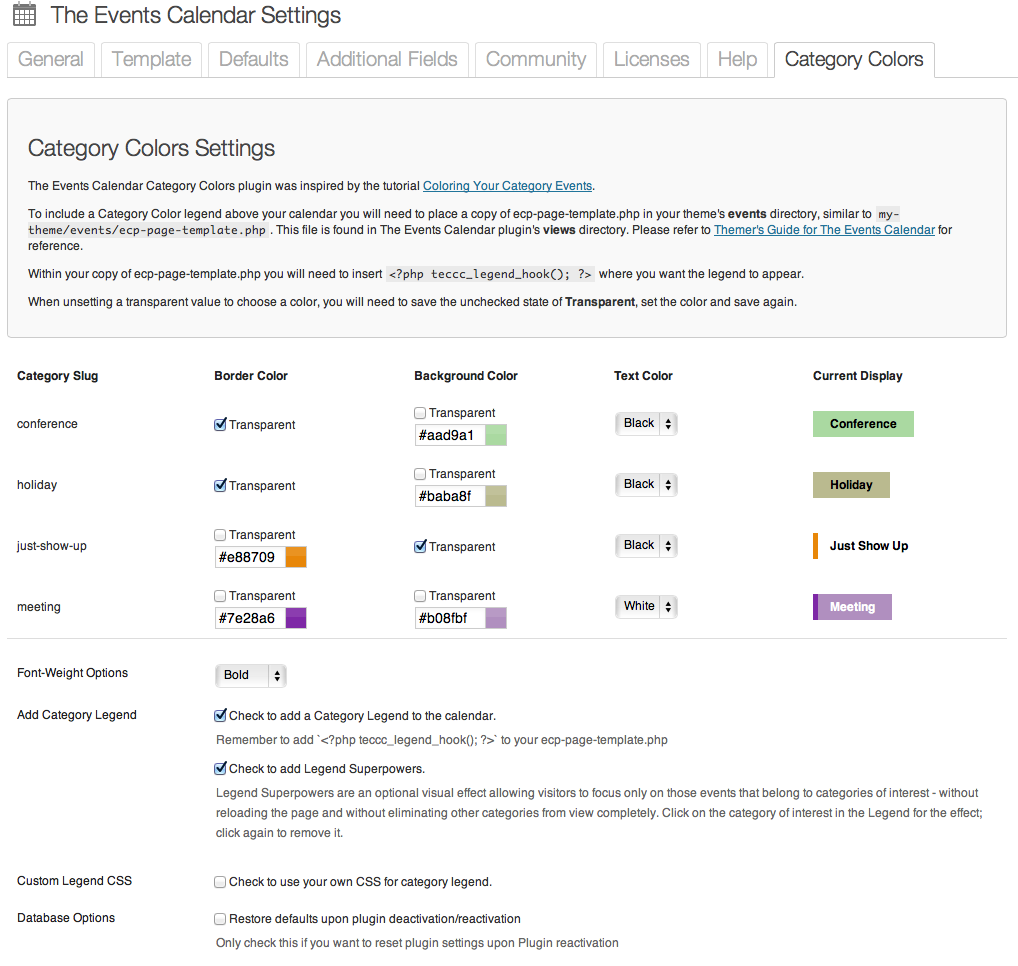
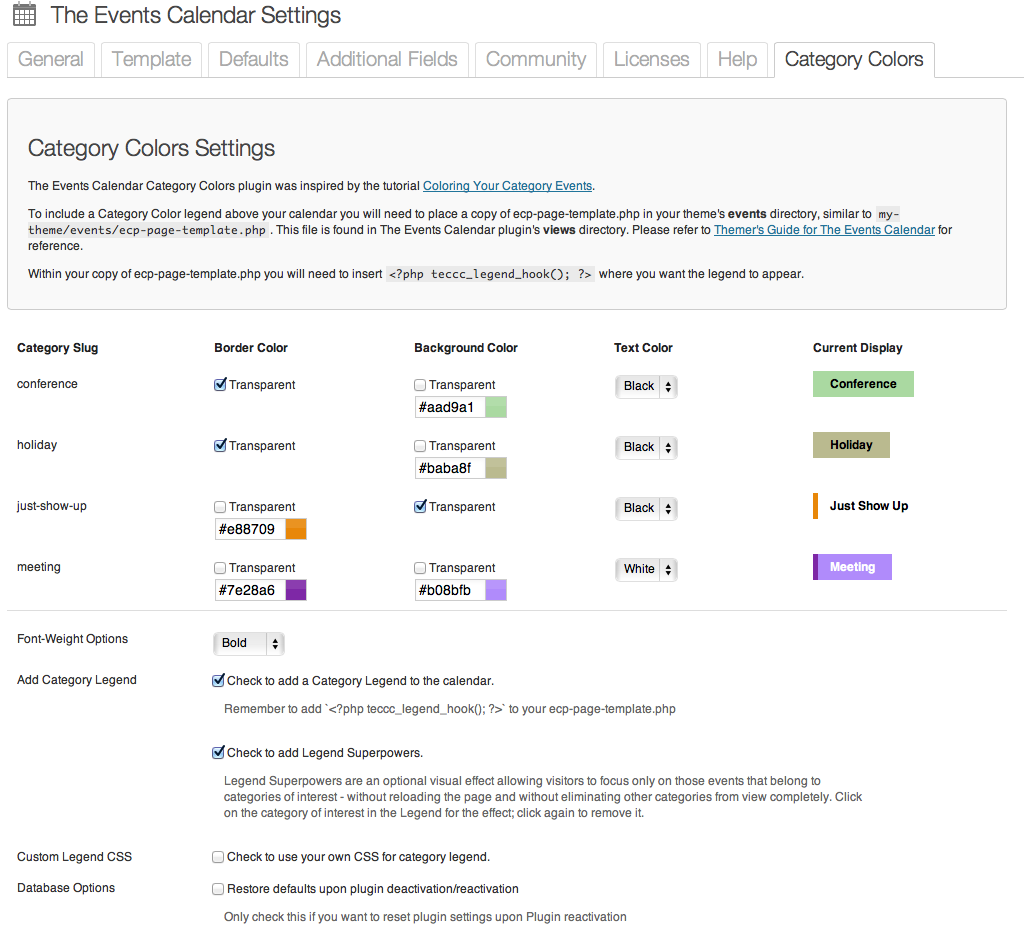
settings transition, various code cleanup
git-svn-id: https://plugins.svn.wordpress.org/the-events-calendar-category-colors/trunk@658441 b8457f37-d9ea-0310-8a92-e5e31aec5664

diff --git a/resources/teccc-admin.js b/resources/teccc-admin.js
@@ -4,6 +4,7 @@
 jQuery(document).ready(function($) {
 	var legendOption = $("#category_legend_setting").find("input");
 	var relatedOptions = $(".legend_related");
+	var transparencySwitches = $("td.color-control").find("input[type='checkbox']");
 
 
 	/**
@@ -17,9 +18,29 @@ jQuery(document).ready(function($) {
 			$(relatedOptions).slideUp();
 	}
 
-	// Toggle Legend Superpowers visibility initially, after the page loads
-	toggleSuperpowersVisibility();
 
-	// Subsequently toggle whenever the legend setting changes
+	/**
+	 * Hide the color selector when transparency is enabled (and do the opposite,
+	 * too).
+	 */
+	function toggleColorControls() {
+		var colorSelector = $(this).parents("td").find(".colorselector");
+
+		if ($(this).attr("checked"))
+			$(colorSelector).slideUp();
+		else
+			$(colorSelector).slideDown();
+	}
+
+
+	// Toggle Legend Superpowers visibility initially, after the page loads
+	// (and run once on page load)
+	toggleSuperpowersVisibility();
 	$(legendOption).change(toggleSuperpowersVisibility);
+
+
+	// Hide/show color selectors, according to whether transparency is checked
+	// (and run once on page load)
+	$(transparencySwitches).change(toggleColorControls);
+	$(transparencySwitches).each(toggleColorControls);
 });

diff --git a/resources/teccc-options.css b/resources/teccc-options.css
@@ -20,3 +20,7 @@
 	color: #666;
 	margin-left: 1em;
 }
+
+table.teccc.form-table td {
+	vertical-align: top;
+}

diff --git a/views/optionsform.php b/views/optionsform.php
@@ -1,4 +1,4 @@
-<table class="form-table">
+<table class="teccc form-table">
 
 	<style type="text/css">.form-table th { font-size: 12px; }</style>
 
@@ -14,21 +14,28 @@
 		<tr>
 			<td> <?php esc_html_e($teccc->slugs[$i]) ?> </td>
 
-			<td> <label> <input name="teccc_options[<?php esc_attr_e($teccc->slugs[$i]) ?>-border_transparent]" type="checkbox" value="1" <?php echo checked('1', $options[$teccc->slugs[$i].'-border_transparent'], false) ?> /> Transparent </label> <br />
-			<?php if (isset($options[$teccc->slugs[$i].'-border_transparent'])):
-				$options[$teccc->slugs[$i].'-border'] = 'transparent';
-			else: ?>
-				<input type="minicolors" name="teccc_options[<?php esc_attr_e($teccc->slugs[$i]) ?>-border]" value="<?php esc_html_e($options[$teccc->slugs[$i].'-border']) ?>" />
-			<?php endif ?>
+			<td class="color-control">
+				<div class="transparency">
+					<label> <input name="teccc_options[<?php esc_attr_e($teccc->slugs[$i]) ?>-border_transparent]" type="checkbox" value="1" <?php echo checked('1', $options[$teccc->slugs[$i].'-border_transparent'], false) ?> /> Transparent </label> <br />
+					<?php if (isset($options[$teccc->slugs[$i].'-border_transparent'])):
+						$options[$teccc->slugs[$i].'-border'] = 'transparent'; ?>
+					<?php endif ?>
+ 				</div>
+				<div class="colorselector">
+					<input type="minicolors" name="teccc_options[<?php esc_attr_e($teccc->slugs[$i]) ?>-border]" value="<?php esc_html_e($options[$teccc->slugs[$i].'-border']) ?>" />
+ 				</div>
 			</td>
 
-			<td>
-				<label> <input name="teccc_options[<?php esc_attr_e($teccc->slugs[$i]) ?>-background_transparent]" type="checkbox" value="1" <?php echo checked('1', $options[$teccc->slugs[$i].'-background_transparent'], false) ?> /> Transparent</label><br />
-			<?php if (isset( $options[$teccc->slugs[$i].'-background_transparent'])):
-				$options[$teccc->slugs[$i].'-background'] = 'transparent';
-			else: ?>
-				<input type="minicolors" name="teccc_options[<?php esc_attr_e($teccc->slugs[$i]) ?>-background]" value="<?php esc_attr_e($options[$teccc->slugs[$i].'-background']) ?>" />
-			<?php endif ?>
+			<td class="color-control">
+				<div class="transparency">
+					<label> <input name="teccc_options[<?php esc_attr_e($teccc->slugs[$i]) ?>-background_transparent]" type="checkbox" value="1" <?php echo checked('1', $options[$teccc->slugs[$i].'-background_transparent'], false) ?> /> Transparent</label><br />
+					<?php if (isset( $options[$teccc->slugs[$i].'-background_transparent'])):
+						$options[$teccc->slugs[$i].'-background'] = 'transparent'; ?>
+					<?php endif ?>
+				</div>
+				<div class="colorselector">
+					<input type="minicolors" name="teccc_options[<?php esc_attr_e($teccc->slugs[$i]) ?>-background]" value="<?php esc_attr_e($options[$teccc->slugs[$i].'-background']) ?>" />
+				</div>
 			</td>
 
 			<td>

diff --git a/classes/admin.php b/classes/admin.php
@@ -127,16 +127,16 @@ class TribeEventsCategoryColorsAdmin {
 	
 	
 	public static function load_teccc_js_css( $hook ) {
-		//var_export($hook);
 		if ( 'tribe_events_page_tribe-events-calendar' != $hook ) return;
 
 		wp_enqueue_style('minicolors-css', TECCC_RESOURCES.'/jquery-miniColors/jquery.miniColors.css' );
 		wp_enqueue_style('minicolors-console', TECCC_RESOURCES.'/minicolors-console.css' );
-		wp_enqueue_script('minicolors-js', TECCC_RESOURCES.'/jquery-miniColors/jquery.miniColors.js' );
-		wp_enqueue_script('minicolors-init', TECCC_RESOURCES.'/jquery-miniColors-init.js' );
+		wp_enqueue_script('minicolors-js', TECCC_RESOURCES.'/jquery-miniColors/jquery.miniColors.js', false, false, true );
+		wp_enqueue_script('minicolors-init', TECCC_RESOURCES.'/jquery-miniColors-init.js', false, false, true );
 		
-		wp_enqueue_script('teccc-admin', TECCC_RESOURCES.'/teccc-admin.js', false, false, true );
-		wp_enqueue_style('teccc-options', TECCC_RESOURCES.'/teccc-options.css' );
-		
+		wp_enqueue_script('teccc-admin', TECCC_RESOURCES.'/teccc-admin.js', false, TribeEventsCategoryColors::VERSION, true );
+		wp_enqueue_style('teccc-options', TECCC_RESOURCES.'/teccc-options.css', false, TribeEventsCategoryColors::VERSION );
+				
 	}
+	
 }

diff --git a/includes/admintab.php b/includes/admintab.php
@@ -20,10 +20,6 @@ return array(
 			'type' => 'html',
 			'html' => '<p>To include a Category Color legend above your calendar you will need to place a copy of ecp-page-template.php in your theme\'s <strong>events</strong> directory, similar to <code>my-theme/events/ecp-page-template.php</code>. This file is found in The Events Calendar plugin\'s <strong>views</strong> directory. Please refer to <a href="http://tri.be/themers-guide-to-the-events-calendar/">Themer\'s Guide for The Events Calendar</a> for reference.</p><p>Within your copy of ecp-page-template.php you will need to insert <code>&lt;?php teccc_legend_hook(); ?&gt;</code> where you want the legend to appear.'
 		),
-		'transparent' => array(
-			'type' => 'html',
-			'html' => '<p>When unsetting a transparent value to choose a color, you will need to save the unchecked state of <strong>Transparent</strong>, set the color and save again.</p>'
-		),
 		'info-end' => array(
 			'type' => 'html',
 			'html' => '</div>'

diff --git a/classes/public.php b/classes/public.php
@@ -28,8 +28,7 @@ class TribeEventsCategoryColorsPublic {
 			add_action('teccc_legend_hook', array($this, 'legend_implementation'));
 
 		if (isset($this->options['legend_superpowers']) and $this->options['legend_superpowers'] === '1') {
-			wp_enqueue_script('jquery');
-			add_action('wp_footer', array($this, 'add_superpower_logic'));
+			wp_enqueue_script('legend_superpowers', TECCC_RESOURCES.'/legend-superpowers.js', array(jquery), TribeEventsCategoryColors::VERSION, true );
 		}
 	}
 
@@ -53,10 +52,4 @@ class TribeEventsCategoryColorsPublic {
 		));
 	}
 
-
-	public function add_superpower_logic() {
-		echo '<script type="text/javascript" src="'
-			.TECCC_RESOURCES.'/legend-superpowers.js'
-			.'"></script> ';
-	}
 }

diff --git a/views/legend.php b/views/legend.php
@@ -5,11 +5,11 @@
 		<?php for ($i = 0; $i < $teccc->count; $i++): ?>
 
 			<li class="cat_<?php esc_attr_e($teccc->slugs[$i]) ?>">
-				<a href="<?php esc_attr_e($tec->getLink().'category/'.$teccc->slugs[$i]) ?>">
+				<a href="<?php esc_attr_e($tec->getLink().trailingslashit(sanitize_title(__( 'category', 'tribe-events-calendar' ))).$teccc->slugs[$i]) ?>">
 					<?php esc_html_e($teccc->names[$i]) ?>
 				</a>
 				<?php if ($legendData): ?>
-					<input type="hidden" name="teccc-slug[<?php echo $i ?>]" value="<?php esc_attr_e($teccc->slugs[$i]) ?>" />
+					<input type="hidden" value="<?php esc_attr_e($teccc->slugs[$i]) ?>" />
 				<?php endif ?>
 			</li>
 

diff --git a/the-events-calendar-category-colors.php b/the-events-calendar-category-colors.php
@@ -4,7 +4,7 @@
 Plugin Name: The Events Calendar Category Colors
 Plugin URI: https://github.com/afragen/events-calendar-category-colors/
 Description: This plugin adds event category background coloring to <a href="http://wordpress.org/extend/plugins/the-events-calendar/">The Events Calendar</a> plugin.
-Version: 1.6.2
+Version: 1.6.3
 Text Domain: events-calendar-category-colors
 Author: Andy Fragen, Barry Hughes
 Author URI: http://thefragens.com/blog/

diff --git a/classes/categorycolors.php b/classes/categorycolors.php
@@ -1,6 +1,6 @@
 <?php
 class TribeEventsCategoryColors {
-	const VERSION = '1.6.2';
+	const VERSION = '1.6.3';
 
 	public $text_colors = array(
 		'Black' => '#000',
